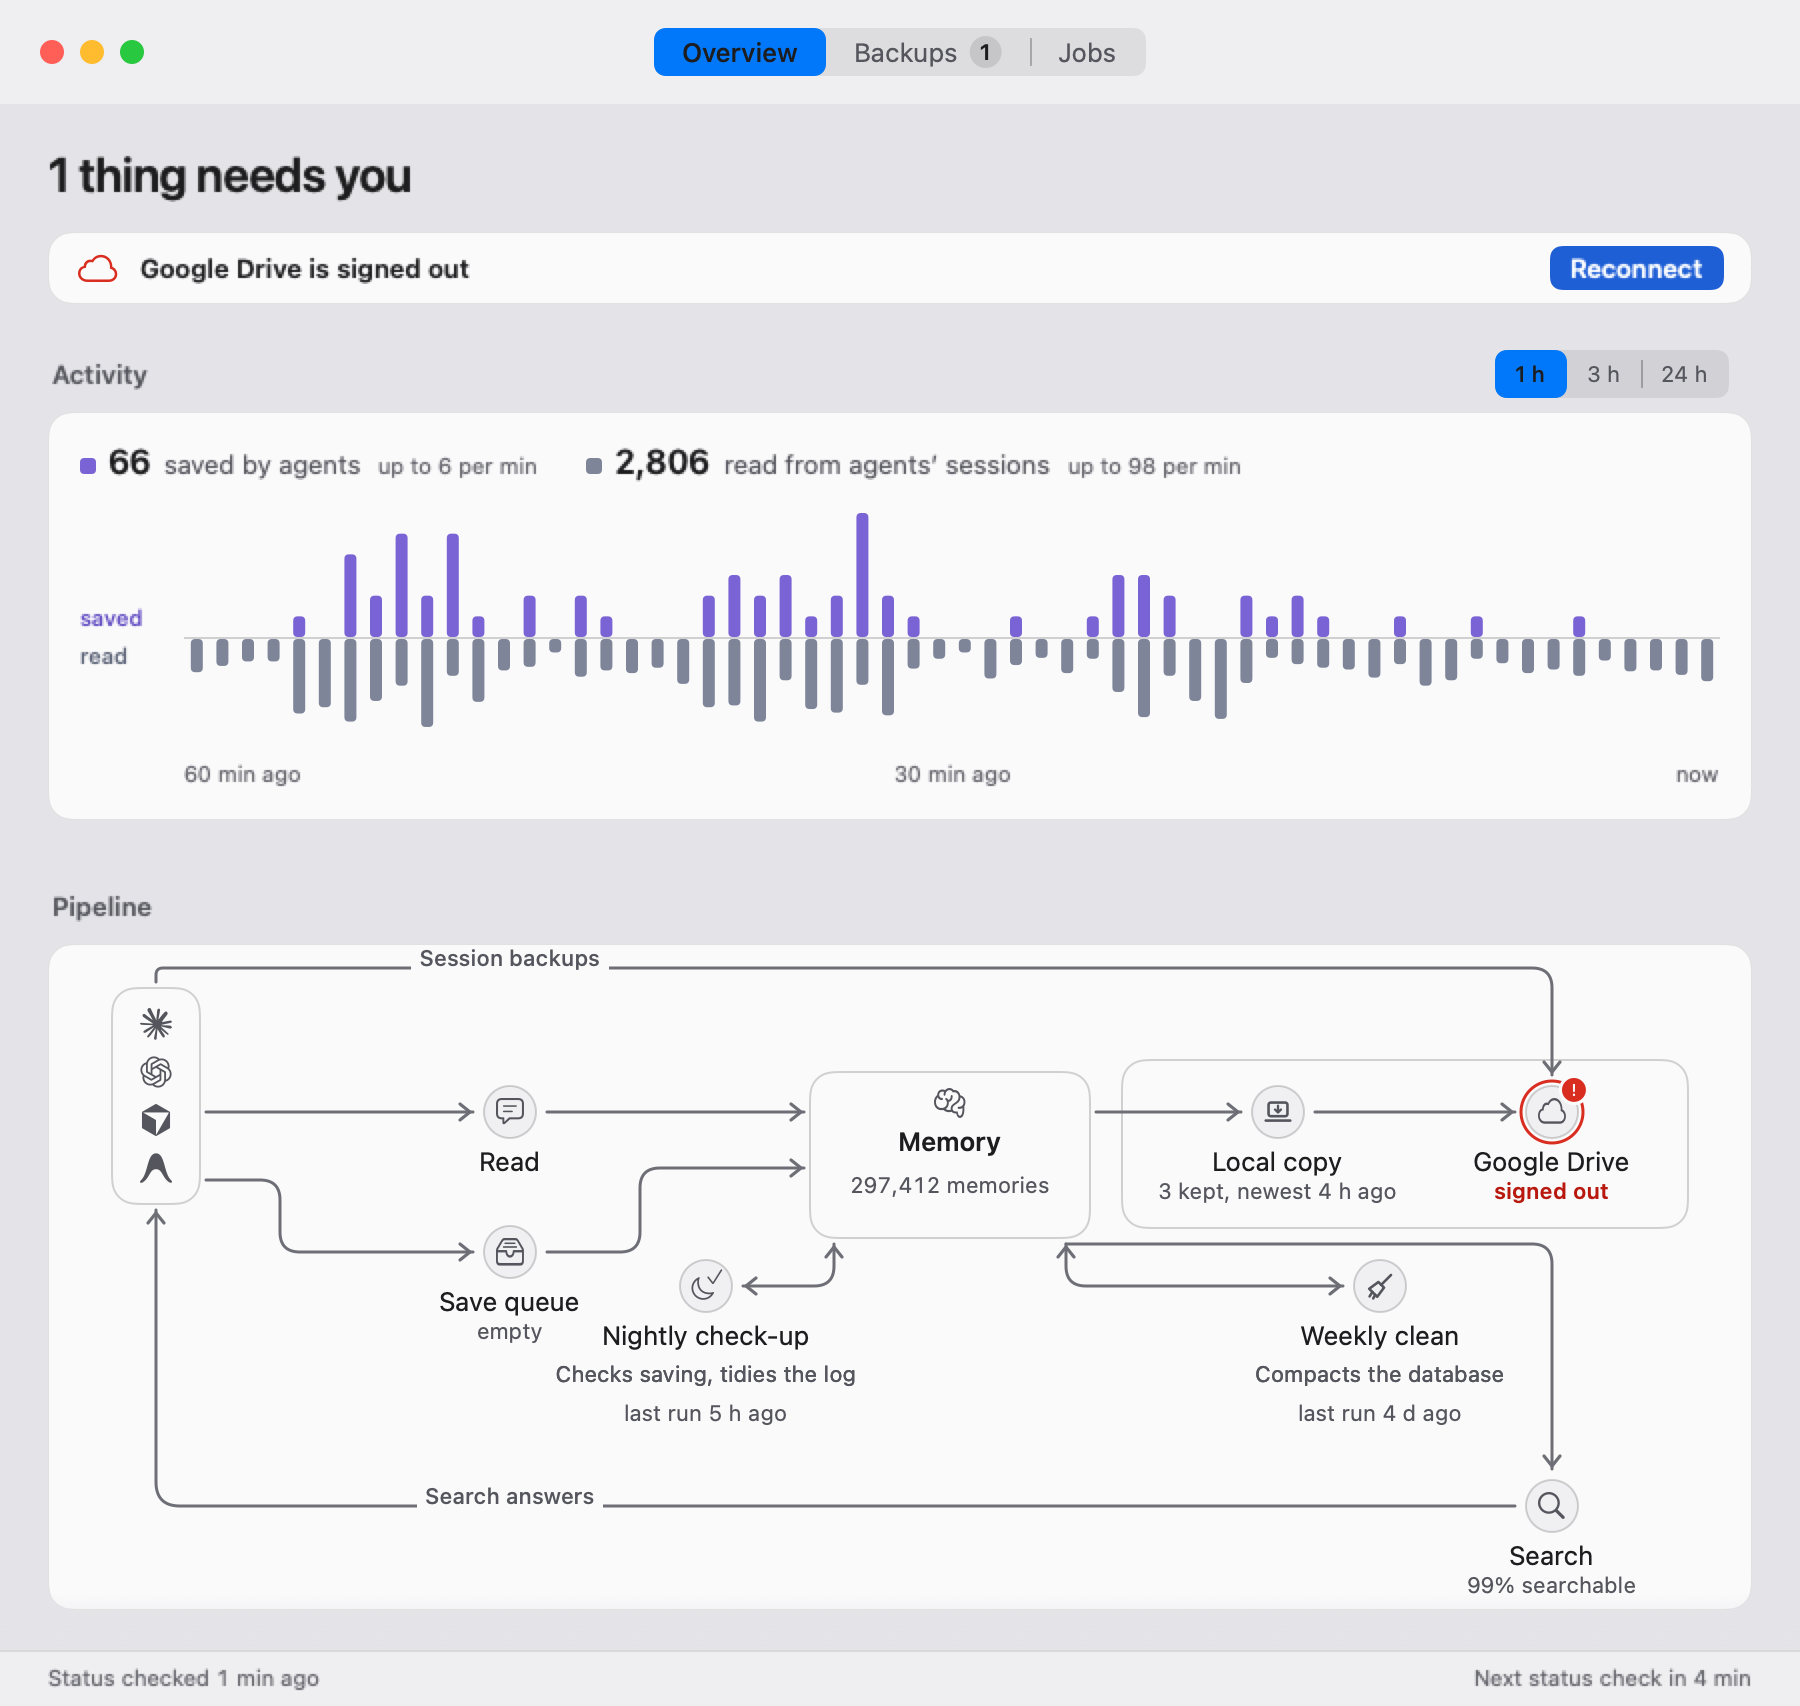
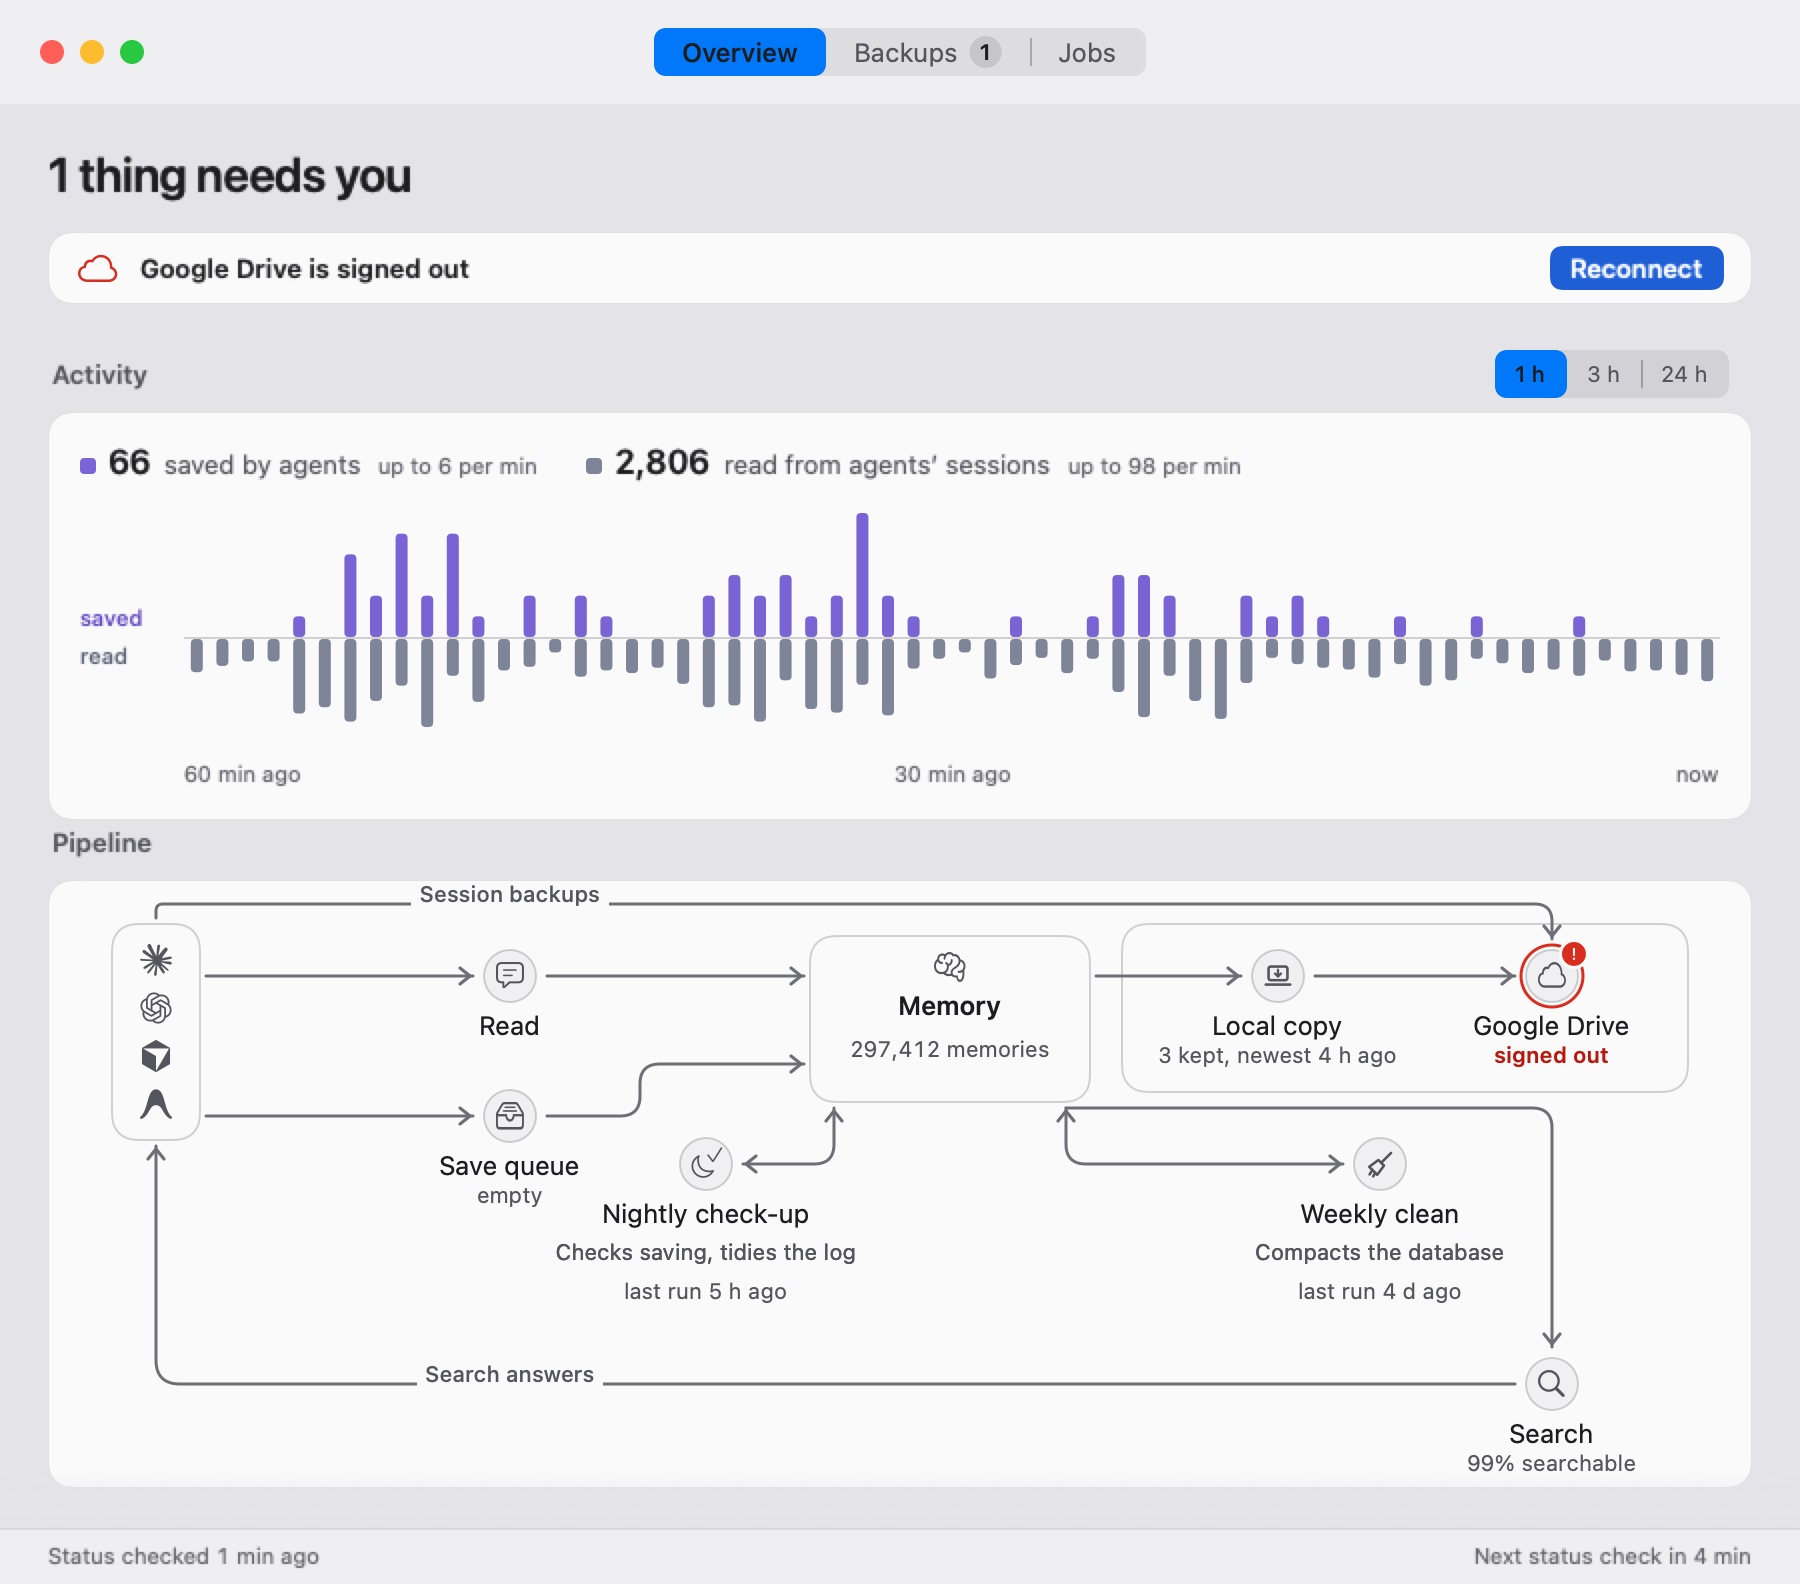
Pipeline compact window and below-Memory proof

diff --git a/proof/pipeline-space/README.md b/proof/pipeline-space/README.md
@@ -1,21 +1,22 @@
-# Pipeline spacing: offscreen before and after
+# Compact Pipeline: offscreen before and after
 
-Invented design fixtures rendered through NDRenderHarness at 2x in dark and light appearances. No installed application, owner screenshot, production database, or production socket was used. These pictures show static offscreen layout; native interaction and installed acceptance remain separate checks.
+Invented design fixtures rendered through NDRenderHarness at 2x, in dark and light appearances. Static offscreen proof only; native interaction and installed acceptance remain separate. No installed application, production database, production socket, or personal screenshot was used.
 
-- Before source: `ce9086e9bcf7cee722be6dbf6fb7bd1ec240f516` (origin/main at lane start).
-- After source: `c419e2736ced6cdebb9387fe63050887aa302e31`. The integrated main commit `80059ee9c` has the same BrainBar tree as the before source.
-- Each directory has a whole Overview at rest, Memory/Nightly/Weekly hover, and a whole faulty Overview with the invented Drive signed-out fixture.
-- All 20 PNGs were opened for visual inspection. Alpha is fully opaque, so there are no transparent margins to crop.
+Before source: `ce9086e9bcf7cee722be6dbf6fb7bd1ec240f516`. After source: `bfb05d571bf2b8f31c0db81f773b38356f8a2a03`.
+
+`before/` and `after/` contain the same ten states: whole calm Overview, Memory/Nightly/Weekly hovers, and whole Drive-fault Overview, each in both themes. `wide/` adds six after-only views of Local copy, Drive fault, and Read lag to show the widened column layout. All 26 images were opened for inspection and are fully opaque; no transparent margins needed cropping.
 
 | Measurement (pt) | Before | After |
 | --- | ---: | ---: |
-| Pipeline drawing height | 345 | 325 |
-| Pipeline card height including 4 pt vertical padding | 353 | 333 |
+| Whole calm Overview | 791 | 742 |
+| Whole Drive-fault Overview | 841 | 792 |
+| Pipeline chart | 345 | 296 |
+| Pipeline card, including 4 pt padding on each side | 353 | 304 |
 | Lowest job words to return caption | 81 | 32 |
 | Job station horizontal distance | 186 | 337 |
-| Whole calm Overview height | 791 | 803 |
-| Activity-to-Pipeline gap | 0 | 32 |
+| Upper station row y | 44 | 44 |
+| Activity-to-Pipeline gap token | 0 | 0 |
 
-The Pipeline card shrinks by 20 pt. Restoring the existing L54 32 pt gap between Activity and Pipeline makes the whole window 12 pt taller; the window follows its content. Job purpose lines, Kept-safe dimensions/text padding, diagram side insets, and the agents column remain covered by focused geometry checks.
+The card and both measured windows shrink by 49 pt. Memory opens below at the measured gap between the job words, with 4 pt clearance. The widened Local copy, Drive and Read bodies arrange the same title, explanation, facts and action in columns. Normal-width bodies keep the existing stack and 14/10 pt padding. The wide variant uses 14/8 pt padding; fonts and 18 pt rows stay the same. Kept-safe dimensions and text spacing, diagram side insets, purpose lines, notch targets and connector endpoint gaps remain checked.
 
-The three new behavior checks failed on the before source (351 assertions across three failing tests) and pass on the after source. The after source passes 49 focused Swift tests, 17 Python checks including R31, and 13 private heartbeat cases. Both BrainBar and BrainBarDaemon built. Lead-routed Claude review, CI, native interaction, and installed proof remain pending.
+The original three behavior guards failed on the before source (351 assertions). Three further guards for the original positions/gap, smaller windows and below-Memory pocket failed on the first PR head c419e273 (93 assertions). The final source passes 53 focused Swift tests, 17 Python checks including R31, and 13 private heartbeat cases. Both products built. Claude review, CI and installed proof remain pending; local CodeRabbit produced no completed verdict within its bounded runs.
